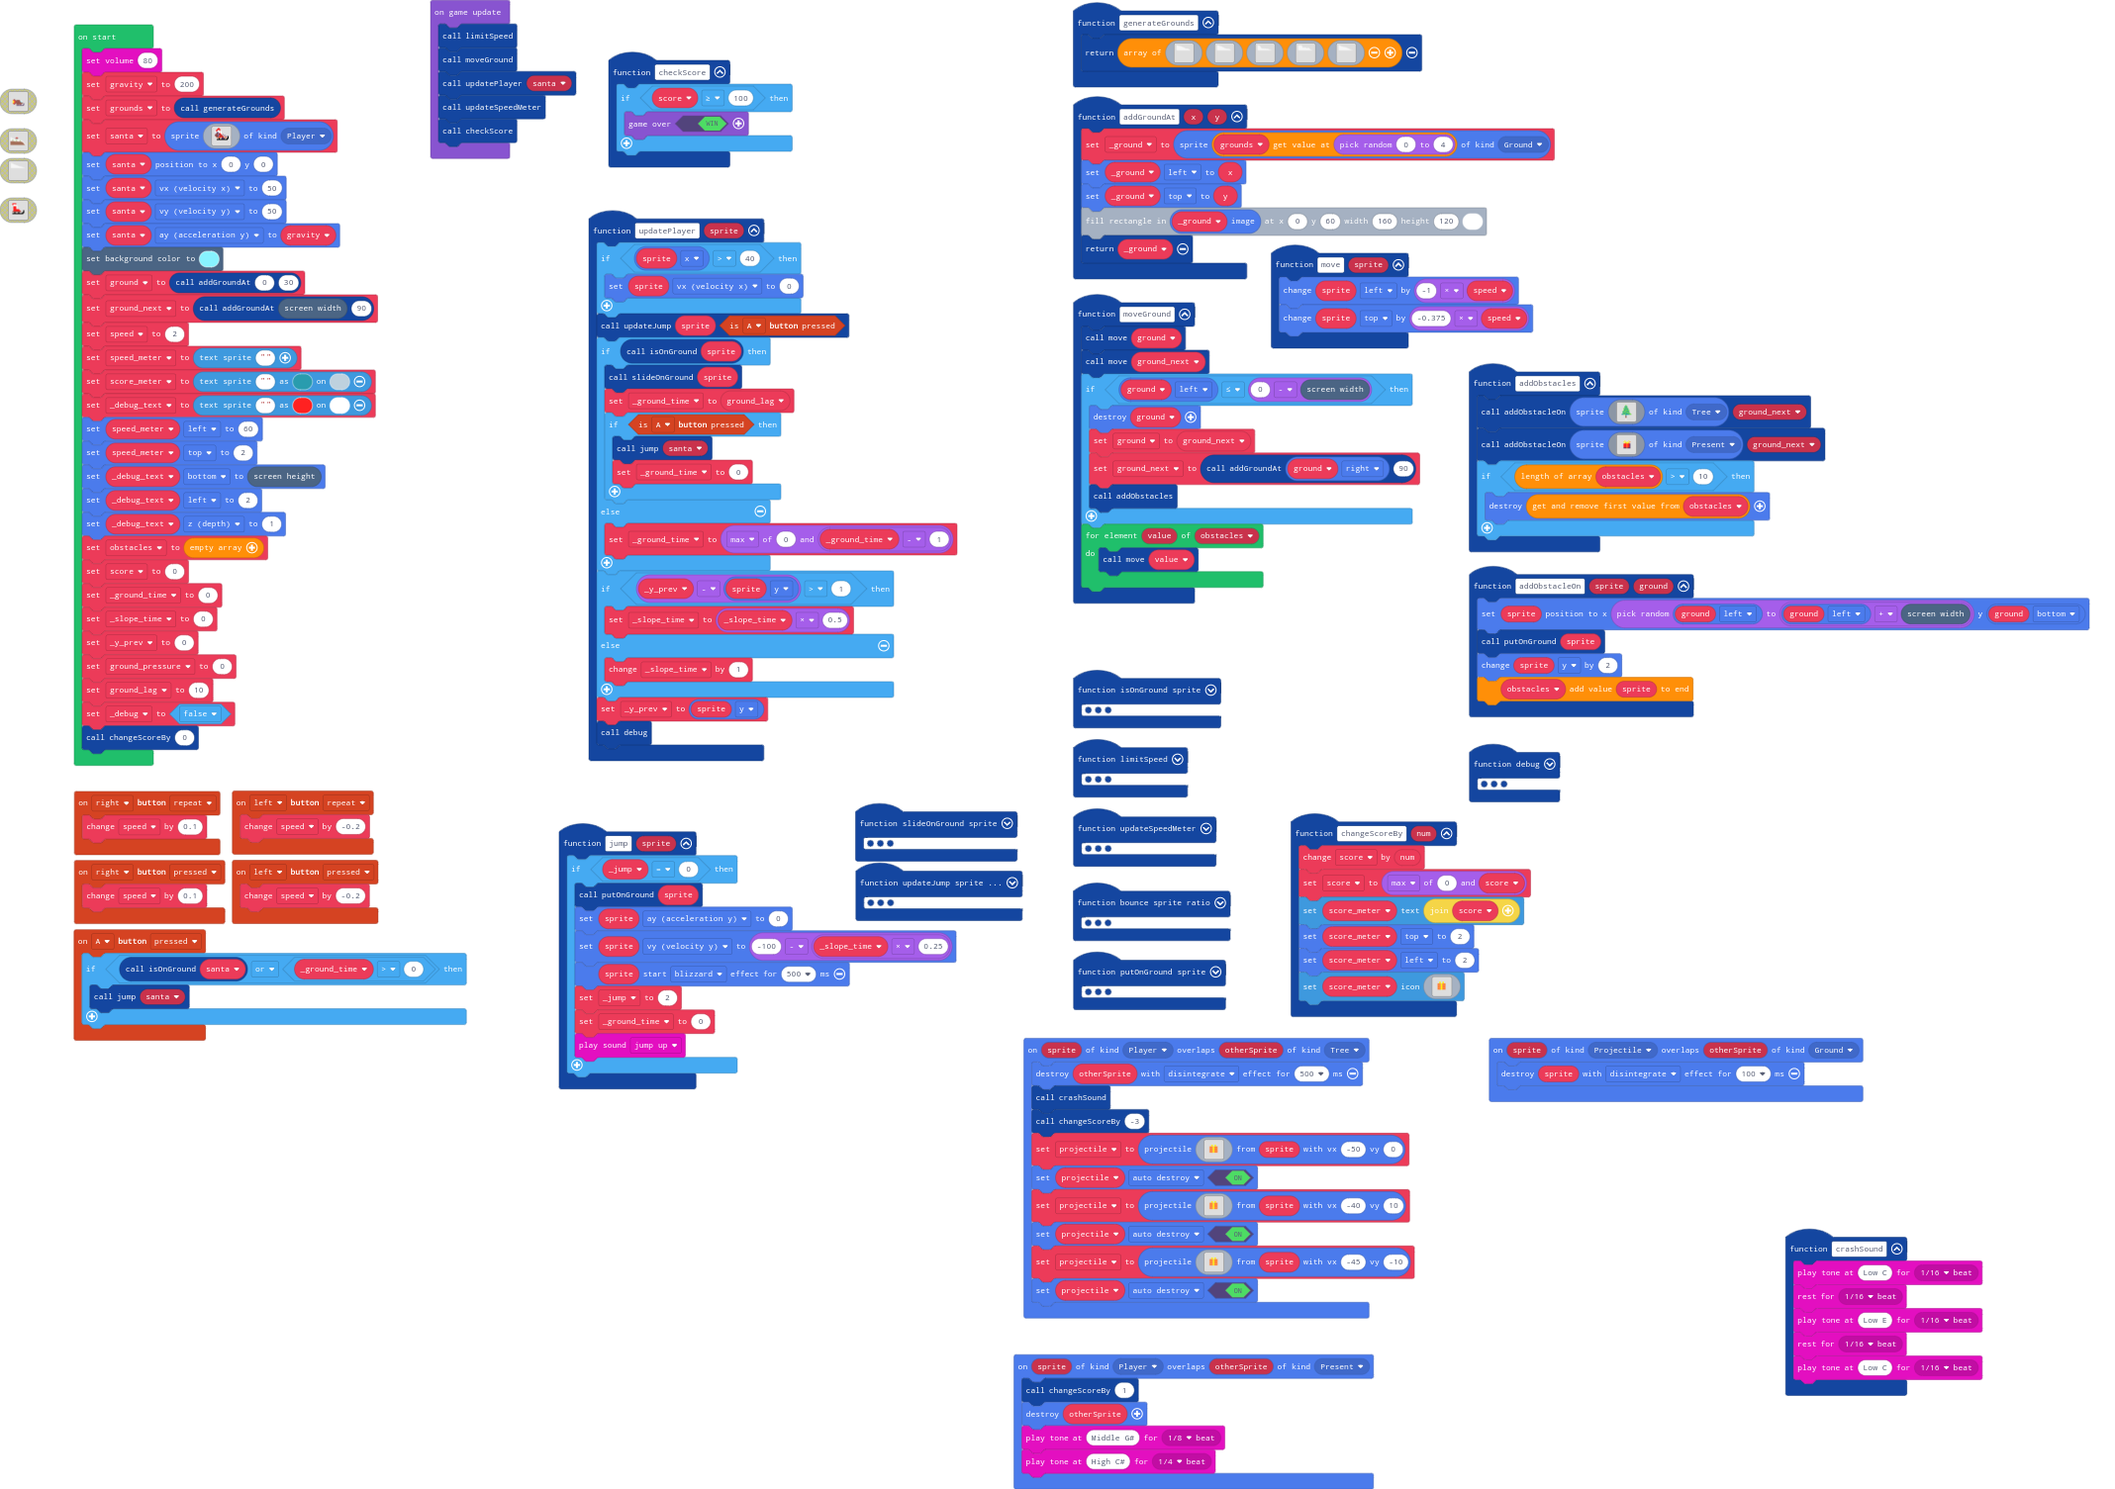
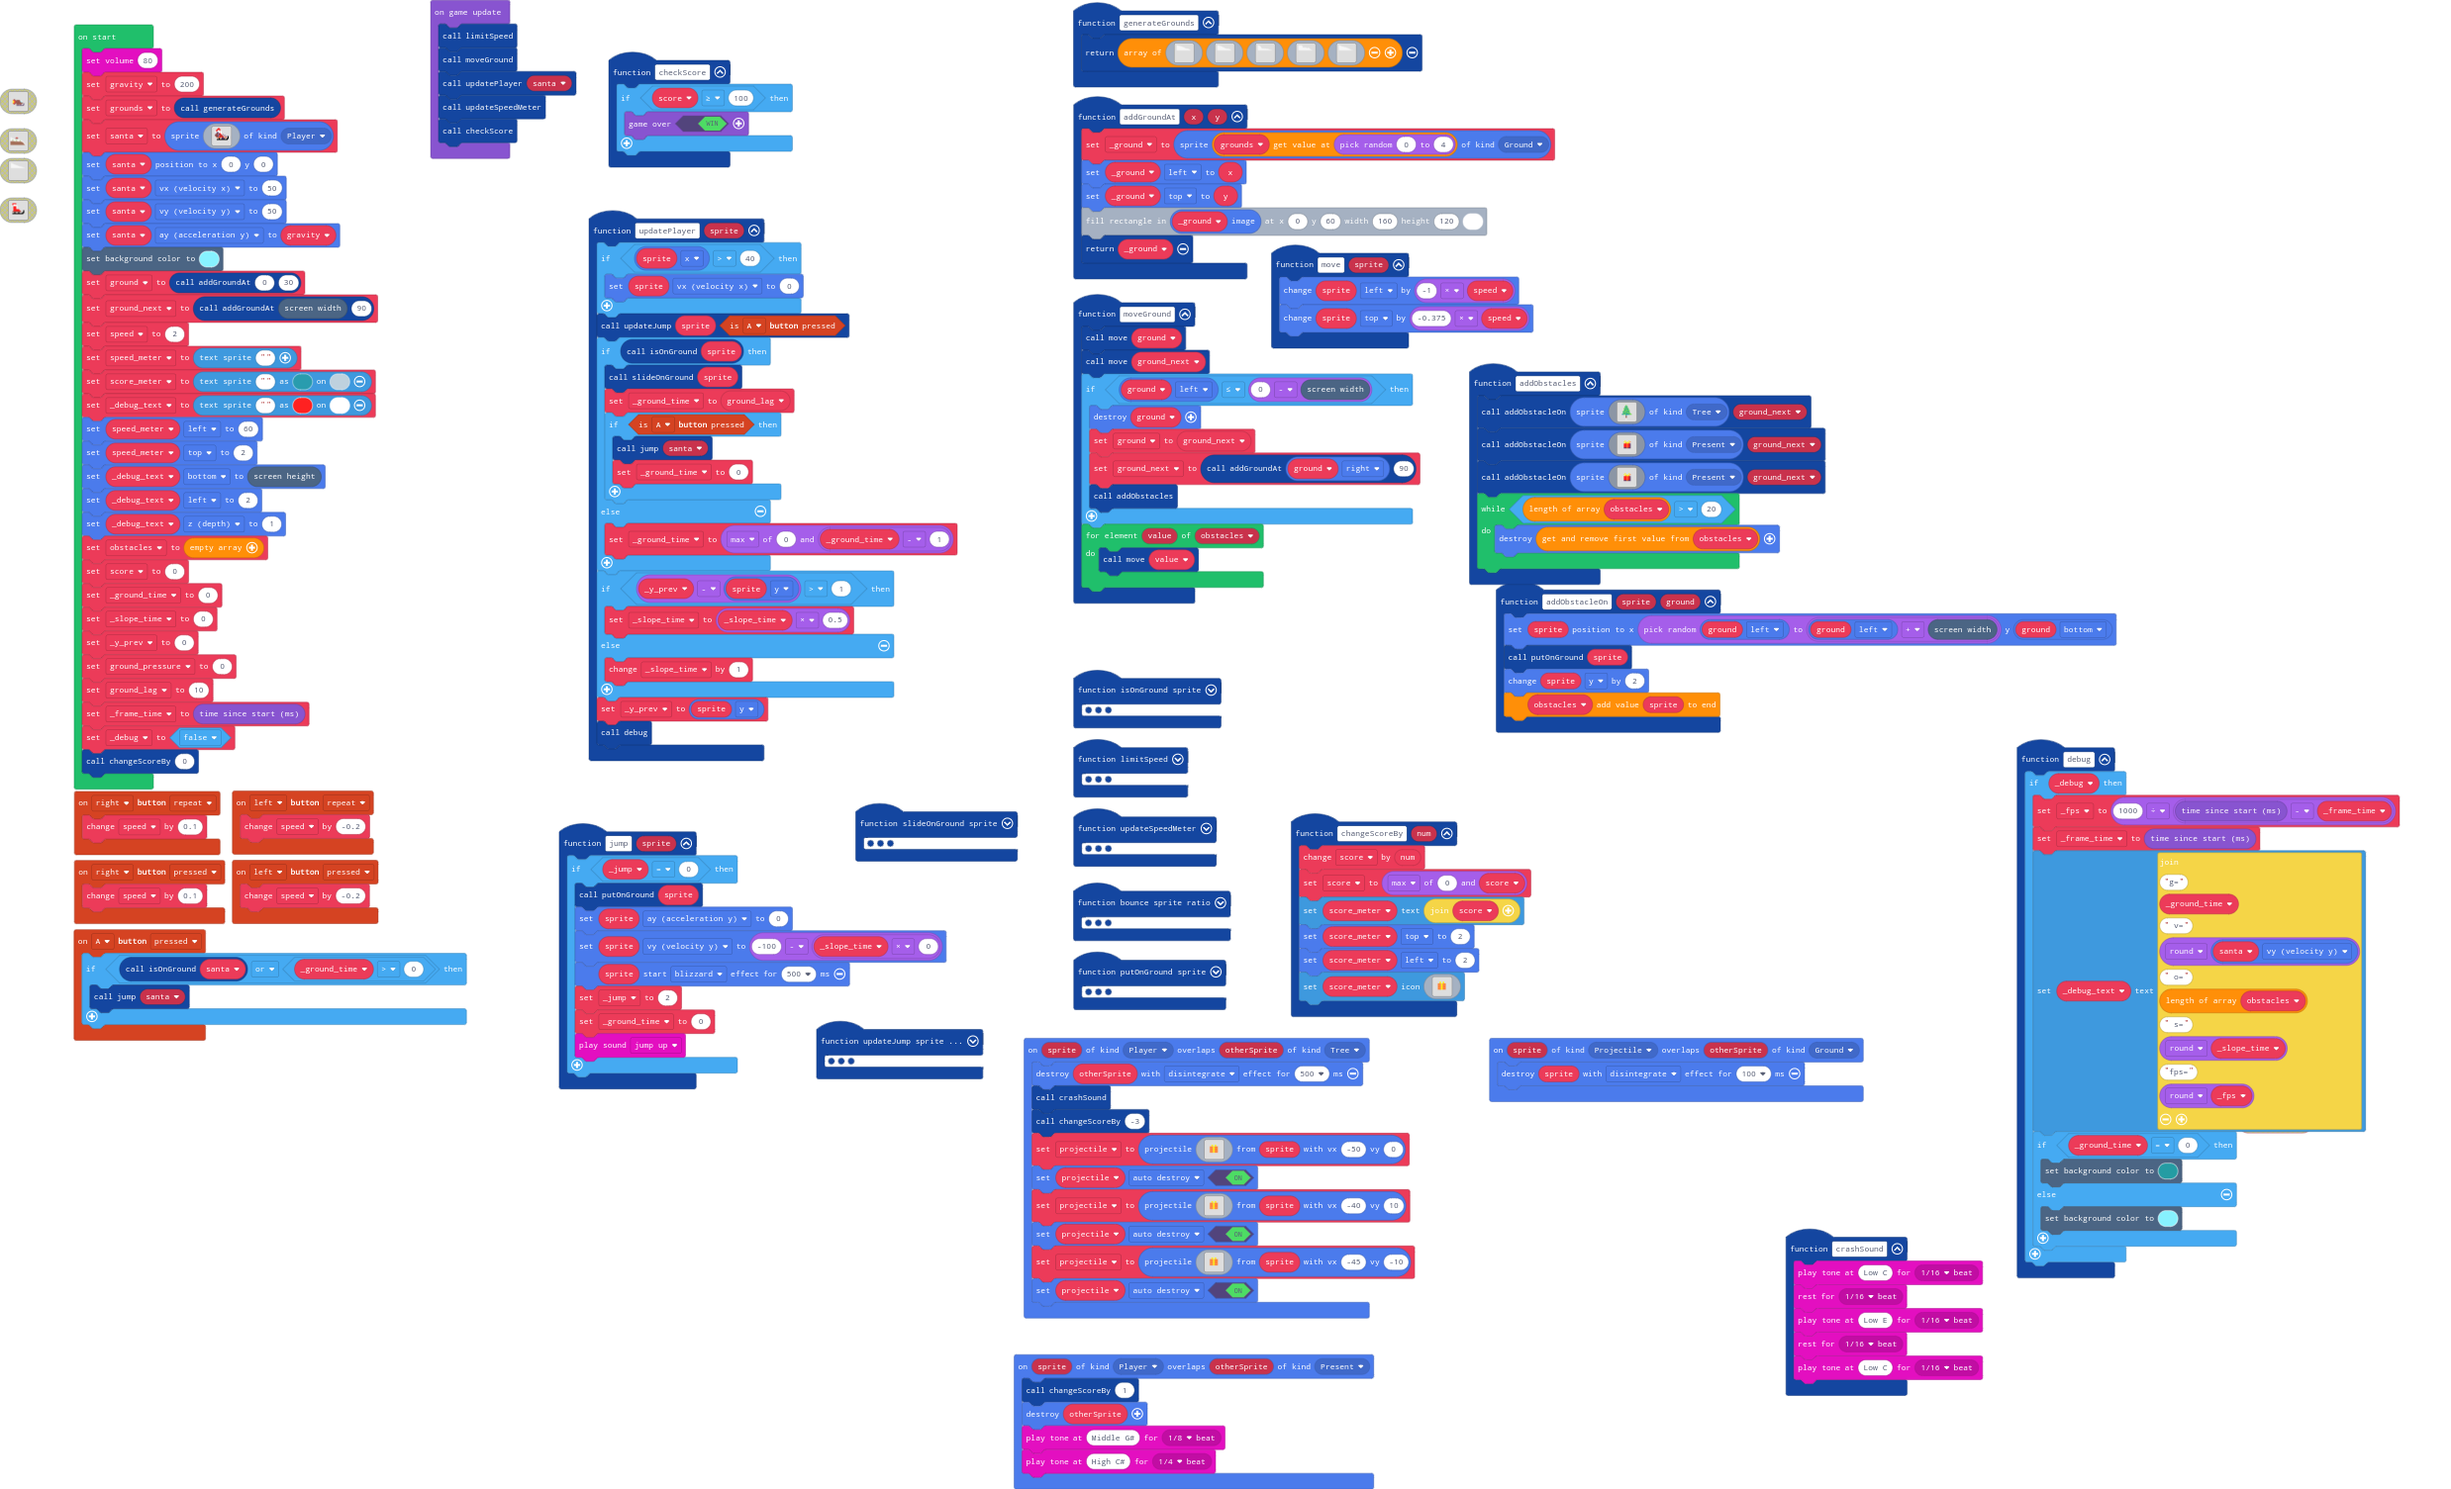
track fps

diff --git a/main.ts b/main.ts
@@ -1010,7 +1010,9 @@ controller.right.onEvent(ControllerButtonEvent.Pressed, function () {
 })
 function debug () {
     if (_debug) {
-        _debug_text.setText("gt=" + _ground_time + " vy=" + Math.round(santa.vy) + " obs=" + obstacles.length + " st=" + Math.round(_slope_time))
+        _fps = 1000 / (game.runtime() - _frame_time)
+        _frame_time = game.runtime()
+        _debug_text.setText("g=" + _ground_time + " v=" + Math.round(santa.vy) + " o=" + obstacles.length + " s=" + Math.round(_slope_time) + "fps=" + Math.round(_fps))
         if (_ground_time == 0) {
             scene.setBackgroundColor(6)
         } else {
@@ -1048,7 +1050,7 @@ function jump (sprite: Sprite) {
     if (_jump == 0) {
         putOnGround(sprite)
         sprite.ay = 0
-        sprite.vy = -100 - _slope_time * 0.25
+        sprite.vy = -100 - _slope_time * 0
         sprite.startEffect(effects.blizzard, 500)
         _jump = 2
         _ground_time = 0
@@ -1161,7 +1163,25 @@ function addObstacles () {
         . . . . . . . . . . . . . . . . 
         . . . . . . . . . . . . . . . . 
         `, SpriteKind.Present), ground_next)
-    if (obstacles.length > 10) {
+    addObstacleOn(sprites.create(img`
+        . . . . . . . . . . . . . . . . 
+        . . . . . . . . . . . . . . . . 
+        . . . . . . . . . . . . . . . . 
+        . . . . . . . . . . . . . . . . 
+        . . . . . . 5 . . . 5 . . . . . 
+        . . . . . 5 . 5 . 5 . 4 . . . . 
+        . . . . . . 5 4 5 5 4 . . . . . 
+        . . . . . 2 2 2 4 2 2 c . . . . 
+        . . . . . 2 2 2 4 2 2 c . . . . 
+        . . . . . 2 2 2 4 2 2 c . . . . 
+        . . . . . 2 2 2 4 2 2 c . . . . 
+        . . . . . c c c 4 c c c . . . . 
+        . . . . . . . . . . . . . . . . 
+        . . . . . . . . . . . . . . . . 
+        . . . . . . . . . . . . . . . . 
+        . . . . . . . . . . . . . . . . 
+        `, SpriteKind.Present), ground_next)
+    while (obstacles.length > 20) {
         obstacles.shift().destroy()
     }
 }
@@ -1169,9 +1189,11 @@ controller.left.onEvent(ControllerButtonEvent.Repeated, function () {
     speed += -0.2
 })
 let projectile: Sprite = null
+let _fps = 0
 let _ground: Sprite = null
 let _jump = 0
 let _debug = false
+let _frame_time = 0
 let ground_lag = 0
 let ground_pressure = 0
 let _y_prev = 0
@@ -1232,6 +1254,7 @@ _slope_time = 0
 _y_prev = 0
 ground_pressure = 0
 ground_lag = 10
+_frame_time = game.runtime()
 _debug = false
 changeScoreBy(0)
 game.onUpdate(function () {
